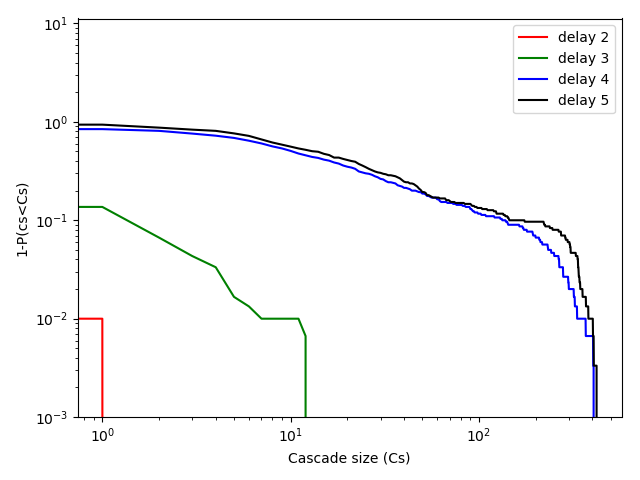
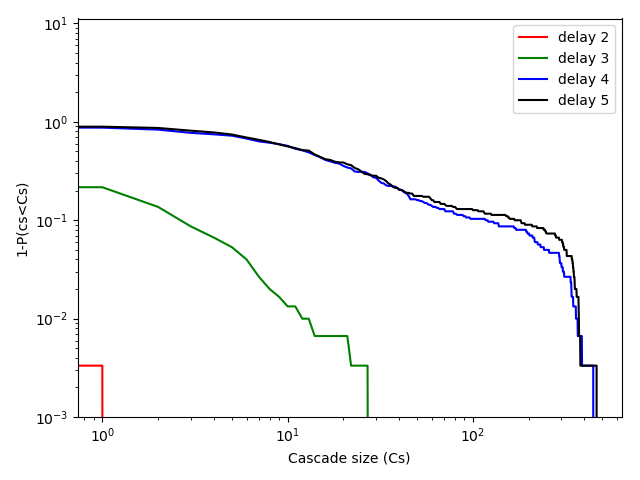
some corrections in the code
now results look perfect before slightly wrong

diff --git a/cascades.py b/cascades.py
@@ -345,20 +345,21 @@ def risk_cascades_sectorial(graph: DiGraph, num_sectors, repetitions_per_node=15
     
     
     for sector in range(num_sectors):
-        risk = []
-        maximum = []
+        risk = np.zeros((amount_per_sector,len(delays)))
+        maximum = np.zeros((amount_per_sector,len(delays)))
         eligible_nodes = sn.nodes_per_sector[sector]
         nodes = np.random.choice(eligible_nodes,size=amount_per_sector)
+        r = 0
         for node_id in nodes:
+            
             sizes = cascades_setting_defaults(graph, node_id, repetitions_per_node, max_iterations,
                                                  mu, beta, delays, policy=policy)
                                                          
-            aux_risk,aux_maximum = assessment(sizes,delays) 
-            risk.append(aux_risk)
-            maximum.append(aux_maximum)
+            risk[r],maximum[r] = assessment(sizes,delays) 
             
+            r+=1
         for i in range(len(delays)):
-            risks[len(delays)*sector+i] = np.mean(risk[:][i])
-            maximums[len(delays)*sector+i] = np.mean(maximum[:][i])
+            risks[len(delays)*sector+i] = np.mean(risk[:,i])
+            maximums[len(delays)*sector+i] = np.max(maximum[:,i])
             
     return risks,maximums

diff --git a/analyze_cascades.py b/analyze_cascades.py
@@ -39,6 +39,9 @@ Also take into consideration:
 Note that if there are 15 sectors, 10 nodes per sector considerer for the analysis
 and 10 repetitions per node with two different delays this results in 3000 simulations !!!!!!!!
 
+Since only one node is getting infected in many cases the system becomes totally cured
+and it stops, that helps the computational time 
+
 I did it for 3 sectors 5 repetitions per node and 10 nodes per sector with delays 2,4 to check
 so 300 simulations and it worked in pretty decent time in my computer (less than 10 min). 
 However a lot of simulations they may be. 
@@ -51,10 +54,10 @@ maxim_prob,maximums = risk_cascades_sectorial(g,num_sectors = number_of_sectors,
                                          beta=0.4,delays=delays_risk,amount_per_sector=10)
 
 for i in range(number_of_sectors):
-    print('For sector',i,'we have:')
+    print('\nFor sector',i,'we have:')
     j = 0
     for delay in delays_risk:
-        print('\nDelay',delay,'\n Maximum probable size of cascade',
+        print('Delay',delay,'\n Maximum probable size of cascade',
               maxim_prob[i*len(delays_risk)+j],'\n Maximum size of the cascade',
               maximums[i*len(delays_risk)+j])
         j +=1
